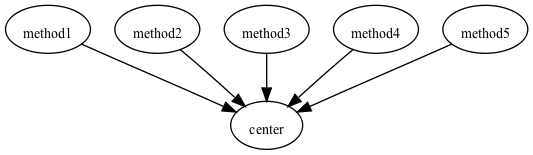
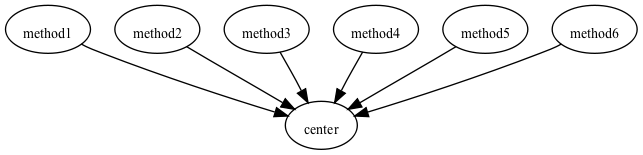
New passing features: handle special characters in method names.

Changed region(s): [[0.0, 0.0258, 1.0, 0.9806], [0.2101, 0.0258, 0.3302, 0.1032]]

diff --git a/lib/rubyviz/cli.rb b/lib/rubyviz/cli.rb
@@ -66,6 +66,10 @@ module Rubyviz
           visit_defn(n)
         elsif [:vcall, :fcall].include?(n[0])
           graph_method_call(n[1])
+        elsif [:call, :attrasgn].include?(n[0])
+          if n[1][0] == :self
+            graph_method_call(n[2])
+          end
         end
         n.each do |child|
           if (child.class == Array)
@@ -77,7 +81,7 @@ module Rubyviz
     
     def self.visit_defn(d)
       name = d[1].to_s
-      @m = @g.add_node( name )
+      @m = @g.add_node( "\"#{name}\"" )
     end
     
     def self.visit_var(v)
@@ -90,7 +94,7 @@ module Rubyviz
       return if @m == nil
       return if [:puts, :system, :raise, :require, :exit].include?(sym)
       name = sym.to_s
-      call = @g.add_node( name )
+      call = @g.add_node( "\"#{name}\"" )
       @g.add_edge(@m, call)
     end
   end

diff --git a/test_data/method_calls/method_names.rb b/test_data/method_calls/method_names.rb
@@ -1,0 +1,15 @@
+# Calling methods with unusual names
+
+class Example
+  def method1
+    self.something= 5
+    side_effect!
+    quality?
+  end
+  def something=
+  end
+  def side_effect!
+  end
+  def quality?
+  end
+end

diff --git a/test_data/methods/method_names.rb b/test_data/methods/method_names.rb
@@ -1,0 +1,10 @@
+# Methods with unusual names
+
+class Example
+  def something=
+  end
+  def side_effect!
+  end
+  def quality?
+  end
+end

diff --git a/test_data/method_calls/many_calls.rb b/test_data/method_calls/many_calls.rb
@@ -20,4 +20,7 @@ class Example1
   def method5
     5 + center
   end
+  def method6
+    self.center
+  end
 end
